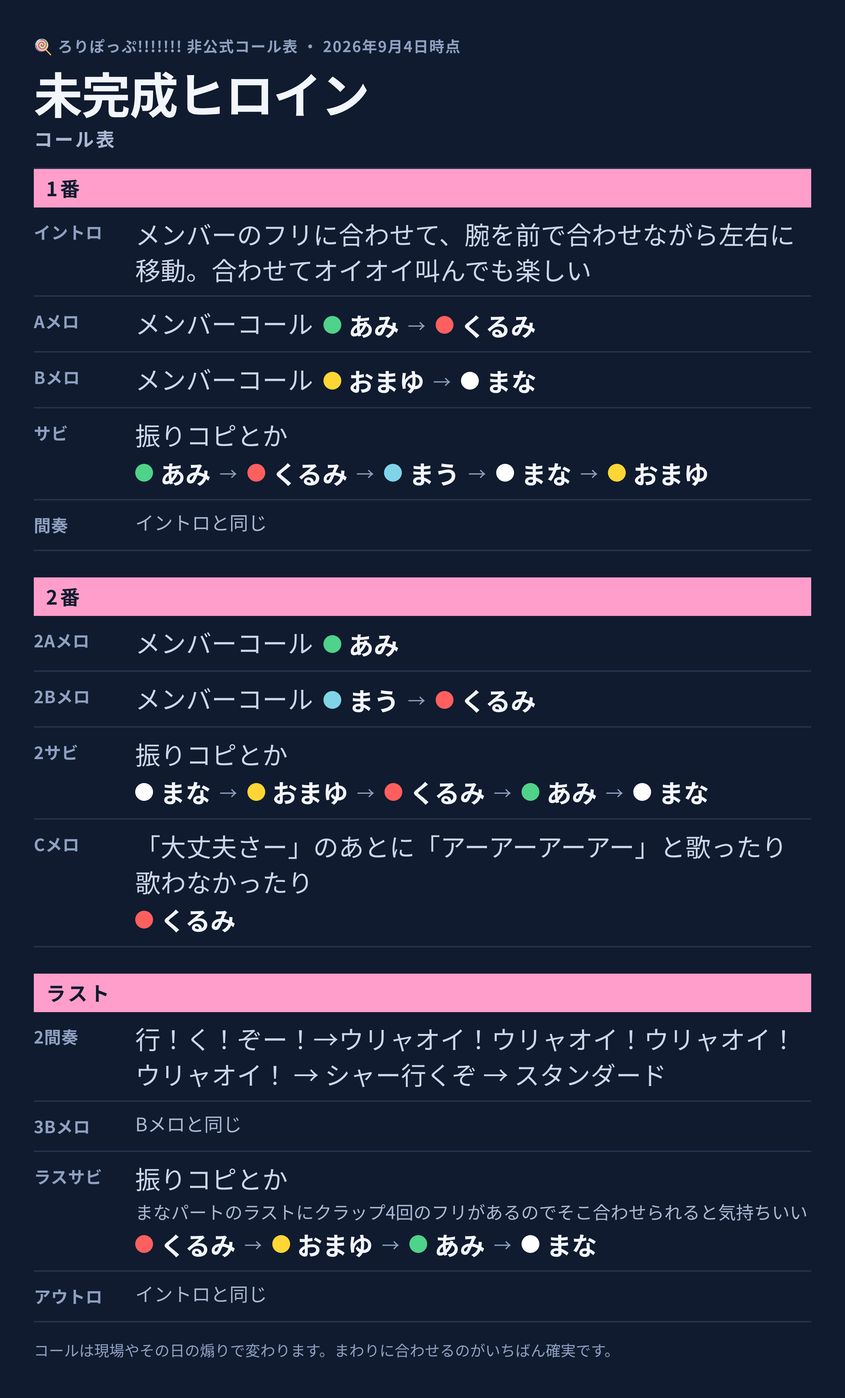
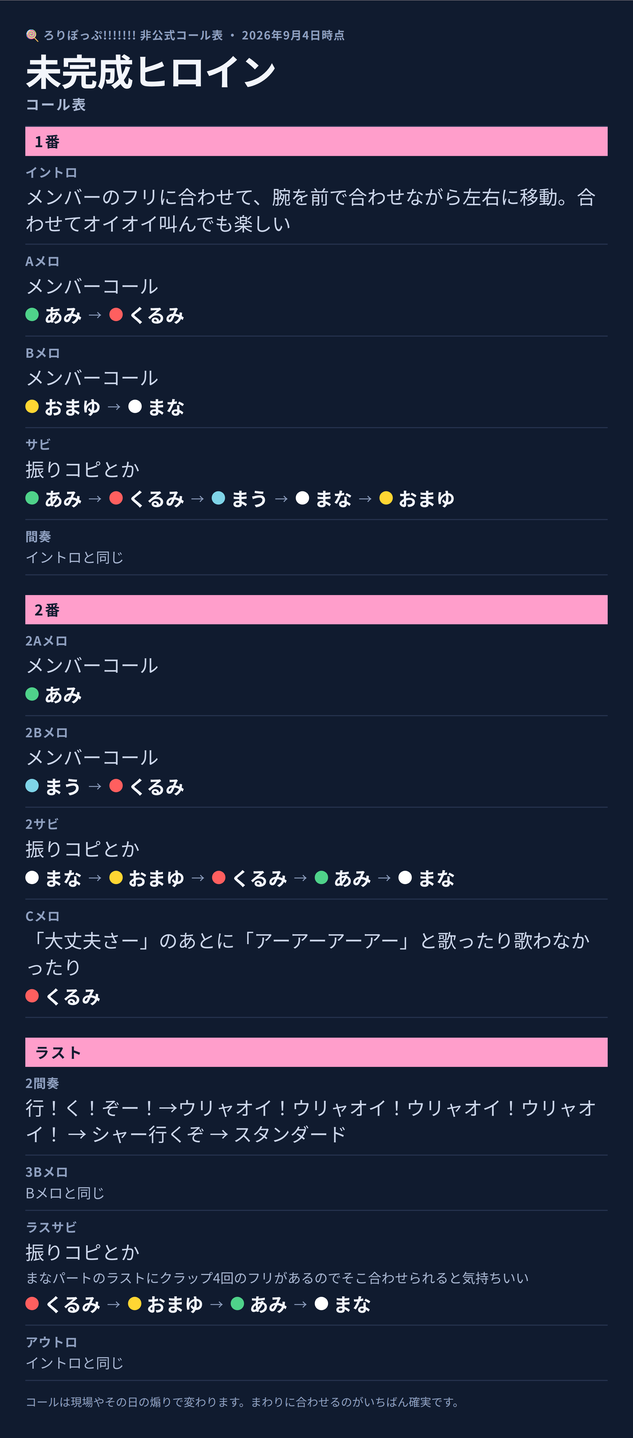
コール表の1パートを3段構成にする
1パートを「曲の構成（Aメロ・サビ）→ やること（メンバーコール・振りコピ）→
メンバーパート」の3段で積む。前は、やることとメンバーの並びを1行に流し、
パート名を左の列に置いていた。1行に収まるぶん縦は短くなるが、種類の違う
情報が同じ行に混ざって読みにくかった。縦に分けたほうが目が迷わない。

- パート名は左の列をやめて上の行へ。本文は幅いっぱいを使う。
- 段の間隔を広げ、やること／メンバーパートの切れ目が分かるようにした。
- 縦が伸びた（1:1.65 → 1:2.27）ぶん、実寸の倍率を2倍から1.5倍に下げた。
  2倍だと高さが8000pxを超えて X の上限（8192px）に迫るため。
  幅2700pxあり、SNSに載せる解像度としては十分。

Claude-Session: https://claude.ai/code/session_01WNKk4GD6PDbxYTrbdx2WSv

diff --git a/resources/call_sheet_cards.html b/resources/call_sheet_cards.html
@@ -115,24 +115,24 @@ body {
 
 .rows { border-top: 3px solid var(--line); }
 
-/* 1行 = 1パート。左にパート名、右に中身 */
+/* 1パート = 3段。曲の構成 → やること → メンバーパートの順に上から積む。
+   段を横に並べると1行に収まって縦は短くなるが、種類の違う情報が同じ行に
+   混ざって読みにくい。縦に分けたほうが目が迷わない */
 .row {
-  display: grid;
-  grid-template-columns: 190px 1fr;
-  gap: 0 26px;
-  padding: 18px 0;
+  padding: 20px 0 22px;
   border-bottom: 3px solid var(--line);
 }
 
 
 
+/* 1段目: 曲の構成（Aメロ・サビ…）。本文より小さく、色も落として見出しにする */
 .row__part {
-  margin: 0;
+  margin: 0 0 6px;
   color: var(--meta);
   font-size: 36px;
   font-weight: 700;
-  line-height: 1.9;
-  letter-spacing: 0.02em;
+  line-height: 1.4;
+  letter-spacing: 0.04em;
 }
 
 .row__body { min-width: 0; }
@@ -162,7 +162,7 @@ body {
 /* 「イントロと同じ」の繰り返しは、本文より落として流し読みできるように */
 .line--same { font-size: 40px; font-weight: 400; color: var(--sub); }
 
-.line + .line { margin-top: 4px; }
+.line + .line { margin-top: 8px; }
 
 /* メンバー名は担当カラーのドット付きで */
 .chips { display: inline-flex; flex-wrap: wrap; align-items: center; gap: 6px 18px; }
@@ -242,15 +242,15 @@ body {
         </div>
         <div class="row">
           <p class="row__part">Aメロ</p>
-          <div class="row__body"><p class="line">メンバーコール<span class="chips"><span class="chip"><span class="dot" style="background-color: var(--mc-ami);" aria-hidden="true"></span>あみ</span><span class="chip"><span class="chip__arrow" aria-hidden="true">→</span><span class="dot" style="background-color: var(--mc-kurumi);" aria-hidden="true"></span>くるみ</span></span></p></div>
+          <div class="row__body"><p class="line">メンバーコール</p><p class="line"><span class="chips"><span class="chip"><span class="dot" style="background-color: var(--mc-ami);" aria-hidden="true"></span>あみ</span><span class="chip"><span class="chip__arrow" aria-hidden="true">→</span><span class="dot" style="background-color: var(--mc-kurumi);" aria-hidden="true"></span>くるみ</span></span></p></div>
         </div>
         <div class="row">
           <p class="row__part">Bメロ</p>
-          <div class="row__body"><p class="line">メンバーコール<span class="chips"><span class="chip"><span class="dot" style="background-color: var(--mc-mayu);" aria-hidden="true"></span>おまゆ</span><span class="chip"><span class="chip__arrow" aria-hidden="true">→</span><span class="dot dot--outline" style="background-color: var(--mc-mana);" aria-hidden="true"></span>まな</span></span></p></div>
+          <div class="row__body"><p class="line">メンバーコール</p><p class="line"><span class="chips"><span class="chip"><span class="dot" style="background-color: var(--mc-mayu);" aria-hidden="true"></span>おまゆ</span><span class="chip"><span class="chip__arrow" aria-hidden="true">→</span><span class="dot dot--outline" style="background-color: var(--mc-mana);" aria-hidden="true"></span>まな</span></span></p></div>
         </div>
         <div class="row">
           <p class="row__part">サビ</p>
-          <div class="row__body"><p class="line">振りコピとか<span class="chips"><span class="chip"><span class="dot" style="background-color: var(--mc-ami);" aria-hidden="true"></span>あみ</span><span class="chip"><span class="chip__arrow" aria-hidden="true">→</span><span class="dot" style="background-color: var(--mc-kurumi);" aria-hidden="true"></span>くるみ</span><span class="chip"><span class="chip__arrow" aria-hidden="true">→</span><span class="dot" style="background-color: var(--mc-mau);" aria-hidden="true"></span>まう</span><span class="chip"><span class="chip__arrow" aria-hidden="true">→</span><span class="dot dot--outline" style="background-color: var(--mc-mana);" aria-hidden="true"></span>まな</span><span class="chip"><span class="chip__arrow" aria-hidden="true">→</span><span class="dot" style="background-color: var(--mc-mayu);" aria-hidden="true"></span>おまゆ</span></span></p></div>
+          <div class="row__body"><p class="line">振りコピとか</p><p class="line"><span class="chips"><span class="chip"><span class="dot" style="background-color: var(--mc-ami);" aria-hidden="true"></span>あみ</span><span class="chip"><span class="chip__arrow" aria-hidden="true">→</span><span class="dot" style="background-color: var(--mc-kurumi);" aria-hidden="true"></span>くるみ</span><span class="chip"><span class="chip__arrow" aria-hidden="true">→</span><span class="dot" style="background-color: var(--mc-mau);" aria-hidden="true"></span>まう</span><span class="chip"><span class="chip__arrow" aria-hidden="true">→</span><span class="dot dot--outline" style="background-color: var(--mc-mana);" aria-hidden="true"></span>まな</span><span class="chip"><span class="chip__arrow" aria-hidden="true">→</span><span class="dot" style="background-color: var(--mc-mayu);" aria-hidden="true"></span>おまゆ</span></span></p></div>
         </div>
         <div class="row">
           <p class="row__part">間奏</p>
@@ -259,19 +259,19 @@ body {
         <p class="block">2番</p>
         <div class="row">
           <p class="row__part">2Aメロ</p>
-          <div class="row__body"><p class="line">メンバーコール<span class="chips"><span class="chip"><span class="dot" style="background-color: var(--mc-ami);" aria-hidden="true"></span>あみ</span></span></p></div>
+          <div class="row__body"><p class="line">メンバーコール</p><p class="line"><span class="chips"><span class="chip"><span class="dot" style="background-color: var(--mc-ami);" aria-hidden="true"></span>あみ</span></span></p></div>
         </div>
         <div class="row">
           <p class="row__part">2Bメロ</p>
-          <div class="row__body"><p class="line">メンバーコール<span class="chips"><span class="chip"><span class="dot" style="background-color: var(--mc-mau);" aria-hidden="true"></span>まう</span><span class="chip"><span class="chip__arrow" aria-hidden="true">→</span><span class="dot" style="background-color: var(--mc-kurumi);" aria-hidden="true"></span>くるみ</span></span></p></div>
+          <div class="row__body"><p class="line">メンバーコール</p><p class="line"><span class="chips"><span class="chip"><span class="dot" style="background-color: var(--mc-mau);" aria-hidden="true"></span>まう</span><span class="chip"><span class="chip__arrow" aria-hidden="true">→</span><span class="dot" style="background-color: var(--mc-kurumi);" aria-hidden="true"></span>くるみ</span></span></p></div>
         </div>
         <div class="row">
           <p class="row__part">2サビ</p>
-          <div class="row__body"><p class="line">振りコピとか<span class="chips"><span class="chip"><span class="dot dot--outline" style="background-color: var(--mc-mana);" aria-hidden="true"></span>まな</span><span class="chip"><span class="chip__arrow" aria-hidden="true">→</span><span class="dot" style="background-color: var(--mc-mayu);" aria-hidden="true"></span>おまゆ</span><span class="chip"><span class="chip__arrow" aria-hidden="true">→</span><span class="dot" style="background-color: var(--mc-kurumi);" aria-hidden="true"></span>くるみ</span><span class="chip"><span class="chip__arrow" aria-hidden="true">→</span><span class="dot" style="background-color: var(--mc-ami);" aria-hidden="true"></span>あみ</span><span class="chip"><span class="chip__arrow" aria-hidden="true">→</span><span class="dot dot--outline" style="background-color: var(--mc-mana);" aria-hidden="true"></span>まな</span></span></p></div>
+          <div class="row__body"><p class="line">振りコピとか</p><p class="line"><span class="chips"><span class="chip"><span class="dot dot--outline" style="background-color: var(--mc-mana);" aria-hidden="true"></span>まな</span><span class="chip"><span class="chip__arrow" aria-hidden="true">→</span><span class="dot" style="background-color: var(--mc-mayu);" aria-hidden="true"></span>おまゆ</span><span class="chip"><span class="chip__arrow" aria-hidden="true">→</span><span class="dot" style="background-color: var(--mc-kurumi);" aria-hidden="true"></span>くるみ</span><span class="chip"><span class="chip__arrow" aria-hidden="true">→</span><span class="dot" style="background-color: var(--mc-ami);" aria-hidden="true"></span>あみ</span><span class="chip"><span class="chip__arrow" aria-hidden="true">→</span><span class="dot dot--outline" style="background-color: var(--mc-mana);" aria-hidden="true"></span>まな</span></span></p></div>
         </div>
         <div class="row">
           <p class="row__part">Cメロ</p>
-          <div class="row__body"><p class="line">「大丈夫さー」のあとに「アーアーアーアー」と歌ったり歌わなかったり<span class="chips"><span class="chip"><span class="dot" style="background-color: var(--mc-kurumi);" aria-hidden="true"></span>くるみ</span></span></p></div>
+          <div class="row__body"><p class="line">「大丈夫さー」のあとに「アーアーアーアー」と歌ったり歌わなかったり</p><p class="line"><span class="chips"><span class="chip"><span class="dot" style="background-color: var(--mc-kurumi);" aria-hidden="true"></span>くるみ</span></span></p></div>
         </div>
         <p class="block">ラスト</p>
         <div class="row">
@@ -306,15 +306,15 @@ body {
         </div>
         <div class="row">
           <p class="row__part">Aメロ</p>
-          <div class="row__body"><p class="line">メンバーコール<span class="chips"><span class="chip"><span class="dot" style="background-color: var(--mc-ami);" aria-hidden="true"></span>あみ</span><span class="chip"><span class="chip__arrow" aria-hidden="true">→</span><span class="dot" style="background-color: var(--mc-kurumi);" aria-hidden="true"></span>くるみ</span></span></p></div>
+          <div class="row__body"><p class="line">メンバーコール</p><p class="line"><span class="chips"><span class="chip"><span class="dot" style="background-color: var(--mc-ami);" aria-hidden="true"></span>あみ</span><span class="chip"><span class="chip__arrow" aria-hidden="true">→</span><span class="dot" style="background-color: var(--mc-kurumi);" aria-hidden="true"></span>くるみ</span></span></p></div>
         </div>
         <div class="row">
           <p class="row__part">Bメロ</p>
-          <div class="row__body"><p class="line">メンバーコール<span class="chips"><span class="chip"><span class="dot" style="background-color: var(--mc-mayu);" aria-hidden="true"></span>おまゆ</span><span class="chip"><span class="chip__arrow" aria-hidden="true">→</span><span class="dot dot--outline" style="background-color: var(--mc-mana);" aria-hidden="true"></span>まな</span></span></p></div>
+          <div class="row__body"><p class="line">メンバーコール</p><p class="line"><span class="chips"><span class="chip"><span class="dot" style="background-color: var(--mc-mayu);" aria-hidden="true"></span>おまゆ</span><span class="chip"><span class="chip__arrow" aria-hidden="true">→</span><span class="dot dot--outline" style="background-color: var(--mc-mana);" aria-hidden="true"></span>まな</span></span></p></div>
         </div>
         <div class="row">
           <p class="row__part">サビ</p>
-          <div class="row__body"><p class="line">振りコピとか<span class="chips"><span class="chip"><span class="dot" style="background-color: var(--mc-ami);" aria-hidden="true"></span>あみ</span><span class="chip"><span class="chip__arrow" aria-hidden="true">→</span><span class="dot" style="background-color: var(--mc-kurumi);" aria-hidden="true"></span>くるみ</span><span class="chip"><span class="chip__arrow" aria-hidden="true">→</span><span class="dot" style="background-color: var(--mc-mau);" aria-hidden="true"></span>まう</span><span class="chip"><span class="chip__arrow" aria-hidden="true">→</span><span class="dot dot--outline" style="background-color: var(--mc-mana);" aria-hidden="true"></span>まな</span><span class="chip"><span class="chip__arrow" aria-hidden="true">→</span><span class="dot" style="background-color: var(--mc-mayu);" aria-hidden="true"></span>おまゆ</span></span></p></div>
+          <div class="row__body"><p class="line">振りコピとか</p><p class="line"><span class="chips"><span class="chip"><span class="dot" style="background-color: var(--mc-ami);" aria-hidden="true"></span>あみ</span><span class="chip"><span class="chip__arrow" aria-hidden="true">→</span><span class="dot" style="background-color: var(--mc-kurumi);" aria-hidden="true"></span>くるみ</span><span class="chip"><span class="chip__arrow" aria-hidden="true">→</span><span class="dot" style="background-color: var(--mc-mau);" aria-hidden="true"></span>まう</span><span class="chip"><span class="chip__arrow" aria-hidden="true">→</span><span class="dot dot--outline" style="background-color: var(--mc-mana);" aria-hidden="true"></span>まな</span><span class="chip"><span class="chip__arrow" aria-hidden="true">→</span><span class="dot" style="background-color: var(--mc-mayu);" aria-hidden="true"></span>おまゆ</span></span></p></div>
         </div>
         <div class="row">
           <p class="row__part">間奏</p>
@@ -323,19 +323,19 @@ body {
         <p class="block">2番</p>
         <div class="row">
           <p class="row__part">2Aメロ</p>
-          <div class="row__body"><p class="line">メンバーコール<span class="chips"><span class="chip"><span class="dot" style="background-color: var(--mc-ami);" aria-hidden="true"></span>あみ</span></span></p></div>
+          <div class="row__body"><p class="line">メンバーコール</p><p class="line"><span class="chips"><span class="chip"><span class="dot" style="background-color: var(--mc-ami);" aria-hidden="true"></span>あみ</span></span></p></div>
         </div>
         <div class="row">
           <p class="row__part">2Bメロ</p>
-          <div class="row__body"><p class="line">メンバーコール<span class="chips"><span class="chip"><span class="dot" style="background-color: var(--mc-mau);" aria-hidden="true"></span>まう</span><span class="chip"><span class="chip__arrow" aria-hidden="true">→</span><span class="dot" style="background-color: var(--mc-kurumi);" aria-hidden="true"></span>くるみ</span></span></p></div>
+          <div class="row__body"><p class="line">メンバーコール</p><p class="line"><span class="chips"><span class="chip"><span class="dot" style="background-color: var(--mc-mau);" aria-hidden="true"></span>まう</span><span class="chip"><span class="chip__arrow" aria-hidden="true">→</span><span class="dot" style="background-color: var(--mc-kurumi);" aria-hidden="true"></span>くるみ</span></span></p></div>
         </div>
         <div class="row">
           <p class="row__part">2サビ</p>
-          <div class="row__body"><p class="line">振りコピとか<span class="chips"><span class="chip"><span class="dot dot--outline" style="background-color: var(--mc-mana);" aria-hidden="true"></span>まな</span><span class="chip"><span class="chip__arrow" aria-hidden="true">→</span><span class="dot" style="background-color: var(--mc-mayu);" aria-hidden="true"></span>おまゆ</span><span class="chip"><span class="chip__arrow" aria-hidden="true">→</span><span class="dot" style="background-color: var(--mc-kurumi);" aria-hidden="true"></span>くるみ</span><span class="chip"><span class="chip__arrow" aria-hidden="true">→</span><span class="dot" style="background-color: var(--mc-ami);" aria-hidden="true"></span>あみ</span><span class="chip"><span class="chip__arrow" aria-hidden="true">→</span><span class="dot dot--outline" style="background-color: var(--mc-mana);" aria-hidden="true"></span>まな</span></span></p></div>
+          <div class="row__body"><p class="line">振りコピとか</p><p class="line"><span class="chips"><span class="chip"><span class="dot dot--outline" style="background-color: var(--mc-mana);" aria-hidden="true"></span>まな</span><span class="chip"><span class="chip__arrow" aria-hidden="true">→</span><span class="dot" style="background-color: var(--mc-mayu);" aria-hidden="true"></span>おまゆ</span><span class="chip"><span class="chip__arrow" aria-hidden="true">→</span><span class="dot" style="background-color: var(--mc-kurumi);" aria-hidden="true"></span>くるみ</span><span class="chip"><span class="chip__arrow" aria-hidden="true">→</span><span class="dot" style="background-color: var(--mc-ami);" aria-hidden="true"></span>あみ</span><span class="chip"><span class="chip__arrow" aria-hidden="true">→</span><span class="dot dot--outline" style="background-color: var(--mc-mana);" aria-hidden="true"></span>まな</span></span></p></div>
         </div>
         <div class="row">
           <p class="row__part">Cメロ</p>
-          <div class="row__body"><p class="line">「大丈夫さー」のあとに「アーアーアーアー」と歌ったり歌わなかったり<span class="chips"><span class="chip"><span class="dot" style="background-color: var(--mc-kurumi);" aria-hidden="true"></span>くるみ</span></span></p></div>
+          <div class="row__body"><p class="line">「大丈夫さー」のあとに「アーアーアーアー」と歌ったり歌わなかったり</p><p class="line"><span class="chips"><span class="chip"><span class="dot" style="background-color: var(--mc-kurumi);" aria-hidden="true"></span>くるみ</span></span></p></div>
         </div>
         <p class="block">ラスト</p>
         <div class="row">
@@ -370,15 +370,15 @@ body {
         </div>
         <div class="row">
           <p class="row__part">Aメロ</p>
-          <div class="row__body"><p class="line">メンバーコール<span class="chips"><span class="chip"><span class="dot" style="background-color: var(--mc-ami);" aria-hidden="true"></span>あみ</span><span class="chip"><span class="chip__arrow" aria-hidden="true">→</span><span class="dot" style="background-color: var(--mc-kurumi);" aria-hidden="true"></span>くるみ</span></span></p></div>
+          <div class="row__body"><p class="line">メンバーコール</p><p class="line"><span class="chips"><span class="chip"><span class="dot" style="background-color: var(--mc-ami);" aria-hidden="true"></span>あみ</span><span class="chip"><span class="chip__arrow" aria-hidden="true">→</span><span class="dot" style="background-color: var(--mc-kurumi);" aria-hidden="true"></span>くるみ</span></span></p></div>
         </div>
         <div class="row">
           <p class="row__part">Bメロ</p>
-          <div class="row__body"><p class="line">メンバーコール<span class="chips"><span class="chip"><span class="dot" style="background-color: var(--mc-mayu);" aria-hidden="true"></span>おまゆ</span><span class="chip"><span class="chip__arrow" aria-hidden="true">→</span><span class="dot dot--outline" style="background-color: var(--mc-mana);" aria-hidden="true"></span>まな</span></span></p></div>
+          <div class="row__body"><p class="line">メンバーコール</p><p class="line"><span class="chips"><span class="chip"><span class="dot" style="background-color: var(--mc-mayu);" aria-hidden="true"></span>おまゆ</span><span class="chip"><span class="chip__arrow" aria-hidden="true">→</span><span class="dot dot--outline" style="background-color: var(--mc-mana);" aria-hidden="true"></span>まな</span></span></p></div>
         </div>
         <div class="row">
           <p class="row__part">サビ</p>
-          <div class="row__body"><p class="line">振りコピとか<span class="chips"><span class="chip"><span class="dot" style="background-color: var(--mc-ami);" aria-hidden="true"></span>あみ</span><span class="chip"><span class="chip__arrow" aria-hidden="true">→</span><span class="dot" style="background-color: var(--mc-kurumi);" aria-hidden="true"></span>くるみ</span><span class="chip"><span class="chip__arrow" aria-hidden="true">→</span><span class="dot" style="background-color: var(--mc-mau);" aria-hidden="true"></span>まう</span><span class="chip"><span class="chip__arrow" aria-hidden="true">→</span><span class="dot dot--outline" style="background-color: var(--mc-mana);" aria-hidden="true"></span>まな</span><span class="chip"><span class="chip__arrow" aria-hidden="true">→</span><span class="dot" style="background-color: var(--mc-mayu);" aria-hidden="true"></span>おまゆ</span></span></p></div>
+          <div class="row__body"><p class="line">振りコピとか</p><p class="line"><span class="chips"><span class="chip"><span class="dot" style="background-color: var(--mc-ami);" aria-hidden="true"></span>あみ</span><span class="chip"><span class="chip__arrow" aria-hidden="true">→</span><span class="dot" style="background-color: var(--mc-kurumi);" aria-hidden="true"></span>くるみ</span><span class="chip"><span class="chip__arrow" aria-hidden="true">→</span><span class="dot" style="background-color: var(--mc-mau);" aria-hidden="true"></span>まう</span><span class="chip"><span class="chip__arrow" aria-hidden="true">→</span><span class="dot dot--outline" style="background-color: var(--mc-mana);" aria-hidden="true"></span>まな</span><span class="chip"><span class="chip__arrow" aria-hidden="true">→</span><span class="dot" style="background-color: var(--mc-mayu);" aria-hidden="true"></span>おまゆ</span></span></p></div>
         </div>
         <div class="row">
           <p class="row__part">間奏</p>
@@ -387,19 +387,19 @@ body {
         <p class="block">2番</p>
         <div class="row">
           <p class="row__part">2Aメロ</p>
-          <div class="row__body"><p class="line">メンバーコール<span class="chips"><span class="chip"><span class="dot" style="background-color: var(--mc-ami);" aria-hidden="true"></span>あみ</span></span></p></div>
+          <div class="row__body"><p class="line">メンバーコール</p><p class="line"><span class="chips"><span class="chip"><span class="dot" style="background-color: var(--mc-ami);" aria-hidden="true"></span>あみ</span></span></p></div>
         </div>
         <div class="row">
           <p class="row__part">2Bメロ</p>
-          <div class="row__body"><p class="line">メンバーコール<span class="chips"><span class="chip"><span class="dot" style="background-color: var(--mc-mau);" aria-hidden="true"></span>まう</span><span class="chip"><span class="chip__arrow" aria-hidden="true">→</span><span class="dot" style="background-color: var(--mc-kurumi);" aria-hidden="true"></span>くるみ</span></span></p></div>
+          <div class="row__body"><p class="line">メンバーコール</p><p class="line"><span class="chips"><span class="chip"><span class="dot" style="background-color: var(--mc-mau);" aria-hidden="true"></span>まう</span><span class="chip"><span class="chip__arrow" aria-hidden="true">→</span><span class="dot" style="background-color: var(--mc-kurumi);" aria-hidden="true"></span>くるみ</span></span></p></div>
         </div>
         <div class="row">
           <p class="row__part">2サビ</p>
-          <div class="row__body"><p class="line">振りコピとか<span class="chips"><span class="chip"><span class="dot dot--outline" style="background-color: var(--mc-mana);" aria-hidden="true"></span>まな</span><span class="chip"><span class="chip__arrow" aria-hidden="true">→</span><span class="dot" style="background-color: var(--mc-mayu);" aria-hidden="true"></span>おまゆ</span><span class="chip"><span class="chip__arrow" aria-hidden="true">→</span><span class="dot" style="background-color: var(--mc-kurumi);" aria-hidden="true"></span>くるみ</span><span class="chip"><span class="chip__arrow" aria-hidden="true">→</span><span class="dot" style="background-color: var(--mc-ami);" aria-hidden="true"></span>あみ</span><span class="chip"><span class="chip__arrow" aria-hidden="true">→</span><span class="dot dot--outline" style="background-color: var(--mc-mana);" aria-hidden="true"></span>まな</span></span></p></div>
+          <div class="row__body"><p class="line">振りコピとか</p><p class="line"><span class="chips"><span class="chip"><span class="dot dot--outline" style="background-color: var(--mc-mana);" aria-hidden="true"></span>まな</span><span class="chip"><span class="chip__arrow" aria-hidden="true">→</span><span class="dot" style="background-color: var(--mc-mayu);" aria-hidden="true"></span>おまゆ</span><span class="chip"><span class="chip__arrow" aria-hidden="true">→</span><span class="dot" style="background-color: var(--mc-kurumi);" aria-hidden="true"></span>くるみ</span><span class="chip"><span class="chip__arrow" aria-hidden="true">→</span><span class="dot" style="background-color: var(--mc-ami);" aria-hidden="true"></span>あみ</span><span class="chip"><span class="chip__arrow" aria-hidden="true">→</span><span class="dot dot--outline" style="background-color: var(--mc-mana);" aria-hidden="true"></span>まな</span></span></p></div>
         </div>
         <div class="row">
           <p class="row__part">Cメロ</p>
-          <div class="row__body"><p class="line">「大丈夫さー」のあとに「アーアーアーアー」と歌ったり歌わなかったり<span class="chips"><span class="chip"><span class="dot" style="background-color: var(--mc-kurumi);" aria-hidden="true"></span>くるみ</span></span></p></div>
+          <div class="row__body"><p class="line">「大丈夫さー」のあとに「アーアーアーアー」と歌ったり歌わなかったり</p><p class="line"><span class="chips"><span class="chip"><span class="dot" style="background-color: var(--mc-kurumi);" aria-hidden="true"></span>くるみ</span></span></p></div>
         </div>
         <p class="block">ラスト</p>
         <div class="row">
@@ -434,15 +434,15 @@ body {
         </div>
         <div class="row">
           <p class="row__part">Aメロ</p>
-          <div class="row__body"><p class="line">メンバーコール<span class="chips"><span class="chip"><span class="dot" style="background-color: var(--mc-ami);" aria-hidden="true"></span>あみ</span><span class="chip"><span class="chip__arrow" aria-hidden="true">→</span><span class="dot" style="background-color: var(--mc-kurumi);" aria-hidden="true"></span>くるみ</span></span></p></div>
+          <div class="row__body"><p class="line">メンバーコール</p><p class="line"><span class="chips"><span class="chip"><span class="dot" style="background-color: var(--mc-ami);" aria-hidden="true"></span>あみ</span><span class="chip"><span class="chip__arrow" aria-hidden="true">→</span><span class="dot" style="background-color: var(--mc-kurumi);" aria-hidden="true"></span>くるみ</span></span></p></div>
         </div>
         <div class="row">
           <p class="row__part">Bメロ</p>
-          <div class="row__body"><p class="line">メンバーコール<span class="chips"><span class="chip"><span class="dot" style="background-color: var(--mc-mayu);" aria-hidden="true"></span>おまゆ</span><span class="chip"><span class="chip__arrow" aria-hidden="true">→</span><span class="dot dot--outline" style="background-color: var(--mc-mana);" aria-hidden="true"></span>まな</span></span></p></div>
+          <div class="row__body"><p class="line">メンバーコール</p><p class="line"><span class="chips"><span class="chip"><span class="dot" style="background-color: var(--mc-mayu);" aria-hidden="true"></span>おまゆ</span><span class="chip"><span class="chip__arrow" aria-hidden="true">→</span><span class="dot dot--outline" style="background-color: var(--mc-mana);" aria-hidden="true"></span>まな</span></span></p></div>
         </div>
         <div class="row">
           <p class="row__part">サビ</p>
-          <div class="row__body"><p class="line">振りコピとか<span class="chips"><span class="chip"><span class="dot" style="background-color: var(--mc-ami);" aria-hidden="true"></span>あみ</span><span class="chip"><span class="chip__arrow" aria-hidden="true">→</span><span class="dot" style="background-color: var(--mc-kurumi);" aria-hidden="true"></span>くるみ</span><span class="chip"><span class="chip__arrow" aria-hidden="true">→</span><span class="dot" style="background-color: var(--mc-mau);" aria-hidden="true"></span>まう</span><span class="chip"><span class="chip__arrow" aria-hidden="true">→</span><span class="dot dot--outline" style="background-color: var(--mc-mana);" aria-hidden="true"></span>まな</span><span class="chip"><span class="chip__arrow" aria-hidden="true">→</span><span class="dot" style="background-color: var(--mc-mayu);" aria-hidden="true"></span>おまゆ</span></span></p></div>
+          <div class="row__body"><p class="line">振りコピとか</p><p class="line"><span class="chips"><span class="chip"><span class="dot" style="background-color: var(--mc-ami);" aria-hidden="true"></span>あみ</span><span class="chip"><span class="chip__arrow" aria-hidden="true">→</span><span class="dot" style="background-color: var(--mc-kurumi);" aria-hidden="true"></span>くるみ</span><span class="chip"><span class="chip__arrow" aria-hidden="true">→</span><span class="dot" style="background-color: var(--mc-mau);" aria-hidden="true"></span>まう</span><span class="chip"><span class="chip__arrow" aria-hidden="true">→</span><span class="dot dot--outline" style="background-color: var(--mc-mana);" aria-hidden="true"></span>まな</span><span class="chip"><span class="chip__arrow" aria-hidden="true">→</span><span class="dot" style="background-color: var(--mc-mayu);" aria-hidden="true"></span>おまゆ</span></span></p></div>
         </div>
         <div class="row">
           <p class="row__part">間奏</p>
@@ -451,19 +451,19 @@ body {
         <p class="block">2番</p>
         <div class="row">
           <p class="row__part">2Aメロ</p>
-          <div class="row__body"><p class="line">メンバーコール<span class="chips"><span class="chip"><span class="dot" style="background-color: var(--mc-ami);" aria-hidden="true"></span>あみ</span></span></p></div>
+          <div class="row__body"><p class="line">メンバーコール</p><p class="line"><span class="chips"><span class="chip"><span class="dot" style="background-color: var(--mc-ami);" aria-hidden="true"></span>あみ</span></span></p></div>
         </div>
         <div class="row">
           <p class="row__part">2Bメロ</p>
-          <div class="row__body"><p class="line">メンバーコール<span class="chips"><span class="chip"><span class="dot" style="background-color: var(--mc-mau);" aria-hidden="true"></span>まう</span><span class="chip"><span class="chip__arrow" aria-hidden="true">→</span><span class="dot" style="background-color: var(--mc-kurumi);" aria-hidden="true"></span>くるみ</span></span></p></div>
+          <div class="row__body"><p class="line">メンバーコール</p><p class="line"><span class="chips"><span class="chip"><span class="dot" style="background-color: var(--mc-mau);" aria-hidden="true"></span>まう</span><span class="chip"><span class="chip__arrow" aria-hidden="true">→</span><span class="dot" style="background-color: var(--mc-kurumi);" aria-hidden="true"></span>くるみ</span></span></p></div>
         </div>
         <div class="row">
           <p class="row__part">2サビ</p>
-          <div class="row__body"><p class="line">振りコピとか<span class="chips"><span class="chip"><span class="dot dot--outline" style="background-color: var(--mc-mana);" aria-hidden="true"></span>まな</span><span class="chip"><span class="chip__arrow" aria-hidden="true">→</span><span class="dot" style="background-color: var(--mc-mayu);" aria-hidden="true"></span>おまゆ</span><span class="chip"><span class="chip__arrow" aria-hidden="true">→</span><span class="dot" style="background-color: var(--mc-kurumi);" aria-hidden="true"></span>くるみ</span><span class="chip"><span class="chip__arrow" aria-hidden="true">→</span><span class="dot" style="background-color: var(--mc-ami);" aria-hidden="true"></span>あみ</span><span class="chip"><span class="chip__arrow" aria-hidden="true">→</span><span class="dot dot--outline" style="background-color: var(--mc-mana);" aria-hidden="true"></span>まな</span></span></p></div>
+          <div class="row__body"><p class="line">振りコピとか</p><p class="line"><span class="chips"><span class="chip"><span class="dot dot--outline" style="background-color: var(--mc-mana);" aria-hidden="true"></span>まな</span><span class="chip"><span class="chip__arrow" aria-hidden="true">→</span><span class="dot" style="background-color: var(--mc-mayu);" aria-hidden="true"></span>おまゆ</span><span class="chip"><span class="chip__arrow" aria-hidden="true">→</span><span class="dot" style="background-color: var(--mc-kurumi);" aria-hidden="true"></span>くるみ</span><span class="chip"><span class="chip__arrow" aria-hidden="true">→</span><span class="dot" style="background-color: var(--mc-ami);" aria-hidden="true"></span>あみ</span><span class="chip"><span class="chip__arrow" aria-hidden="true">→</span><span class="dot dot--outline" style="background-color: var(--mc-mana);" aria-hidden="true"></span>まな</span></span></p></div>
         </div>
         <div class="row">
           <p class="row__part">Cメロ</p>
-          <div class="row__body"><p class="line">「大丈夫さー」のあとに「アーアーアーアー」と歌ったり歌わなかったり<span class="chips"><span class="chip"><span class="dot" style="background-color: var(--mc-kurumi);" aria-hidden="true"></span>くるみ</span></span></p></div>
+          <div class="row__body"><p class="line">「大丈夫さー」のあとに「アーアーアーアー」と歌ったり歌わなかったり</p><p class="line"><span class="chips"><span class="chip"><span class="dot" style="background-color: var(--mc-kurumi);" aria-hidden="true"></span>くるみ</span></span></p></div>
         </div>
         <p class="block">ラスト</p>
         <div class="row">

diff --git a/resources/build_call_sheet.py b/resources/build_call_sheet.py
@@ -620,24 +620,24 @@ body {
 
 .rows { border-top: 3px solid var(--line); }
 
-/* 1行 = 1パート。左にパート名、右に中身 */
+/* 1パート = 3段。曲の構成 → やること → メンバーパートの順に上から積む。
+   段を横に並べると1行に収まって縦は短くなるが、種類の違う情報が同じ行に
+   混ざって読みにくい。縦に分けたほうが目が迷わない */
 .row {
-  display: grid;
-  grid-template-columns: 190px 1fr;
-  gap: 0 26px;
-  padding: 18px 0;
+  padding: 20px 0 22px;
   border-bottom: 3px solid var(--line);
 }
 
 
 
+/* 1段目: 曲の構成（Aメロ・サビ…）。本文より小さく、色も落として見出しにする */
 .row__part {
-  margin: 0;
+  margin: 0 0 6px;
   color: var(--meta);
   font-size: 36px;
   font-weight: 700;
-  line-height: 1.9;
-  letter-spacing: 0.02em;
+  line-height: 1.4;
+  letter-spacing: 0.04em;
 }
 
 .row__body { min-width: 0; }
@@ -667,7 +667,7 @@ body {
 /* 「イントロと同じ」の繰り返しは、本文より落として流し読みできるように */
 .line--same { font-size: 40px; font-weight: 400; color: var(--sub); }
 
-.line + .line { margin-top: 4px; }
+.line + .line { margin-top: 8px; }
 
 /* メンバー名は担当カラーのドット付きで */
 .chips { display: inline-flex; flex-wrap: wrap; align-items: center; gap: 6px 18px; }
@@ -722,33 +722,21 @@ def part_lines(part: Part) -> list[str]:
 
 
 def render_lines(lines: list[str]) -> str:
-    """行をまとめる。パートの1行目とメンバーの並びは大きく、補足は一段小さく。
+    """1パートを3段で出す。上から「やること」→「メンバーパート」。
+
+    パート名（曲の構成）は呼び出し側が上に置くので、ここは2段目から。
+    「メンバーコール」と「あみ→くるみ」は別の行にする。横に並べると1行に
+    収まって縦は短くなるが、やることとメンバーが同じ行に混ざって読みにくい。
 
     1行目は「そのパートで何をするか」なので必ず大きくする。長い説明でも小さくすると、
     イントロや2間奏（MIXの掛け声）のように文で書かれたパートだけ弱く見えてしまう。
     2行目以降の補足（コツや但し書き）は一段落として、目を留めたときに読めればいい。
-
-    「メンバーコール」と「あみ→くるみ」は別々の行にすると縦を倍使うので、
-    横に並べて入るなら1行に流す（入らなければ折り返す）。
     """
     out = []
-    index = 0
-    while index < len(lines):
-        line = lines[index]
-        first = not out
-        is_route = bool(ROUTE_RE.match(line))
-
-        if not first and not is_route and len(line) > SHORT:
-            out.append(f'<p class="line line--note">{render_text(line)}</p>')
-            index += 1
-            continue
-
-        chunk = [render_text(line)]
-        index += 1
-        while index < len(lines) and ROUTE_RE.match(lines[index]):
-            chunk.append(render_text(lines[index]))
-            index += 1
-        out.append(f'<p class="line">{"".join(chunk)}</p>')
+    for index, line in enumerate(lines):
+        note = index and not ROUTE_RE.match(line) and len(line) > SHORT
+        cls = "line line--note" if note else "line"
+        out.append(f'<p class="{cls}">{render_text(line)}</p>')
     return "".join(out)
 
 

diff --git a/resources/capture_call_sheet.py b/resources/capture_call_sheet.py
@@ -7,7 +7,8 @@
 
 **縦型（既定・SNSに載せるのはこっち）**
   resources/call_sheet_cards.html のカードを撮る。**1曲 = 1枚**。
-  出力は resources/img/call_sheet_<色>.png（3600x5956 / 実寸2倍の高解像度）。
+  1パートを3段（曲の構成 → やること → メンバーパート）で積む。
+  出力は resources/img/call_sheet_<色>.png（2700x6126 / 実寸1.5倍）。
   1曲を3枚に割ると、SNSで1曲のコール表が散らばって追えない。横長1枚に
   詰め込むと本文が4px相当まで縮んで拡大しないと読めない。どちらも試して
   却下し、縦1枚に落ち着いた（2026-09-04）。
@@ -39,7 +40,9 @@ CARDS_PAGE = ROOT / "resources" / "call_sheet_cards.html"
 OUT_DIR = ROOT / "resources" / "img"
 LANDSCAPE_WIDTH = 1440
 LANDSCAPE_RATIO = 9 / 16
-SCALE = 2
+# 実寸の倍率。3段構成にして縦が伸びたので、2倍だと高さが8000pxを超えて
+# X の上限（8192px）に迫る。1.5倍でも幅2700pxあり、SNSには十分な解像度。
+SCALE = 1.5
 FONT = "Noto Sans JP"
 
 # フォントが無い環境で撮ろうとしたときに出す直し方

diff --git a/README.md b/README.md
@@ -61,7 +61,7 @@ J-POPアイドルジャンルを中心に、ライブを通じて観客と一緒
 
 | パス | 内容 |
 | --- | --- |
-| `resources/` | GitHub Pages で公開しているサイト一式（ポータル・ビューア・セトリ白書・成長戦略ノート・CSS）。コール表は `songs/call_list.md` から `build_call_sheet.py` が生成する（`call_sheet.html` = 読む用の横長、`call_sheet_cards.html` = SNS用の縦型カード）。投稿用の画像は `capture_call_sheet.py` で `img/call_sheet_<色>.png`（1曲1枚の縦長・3600x5956）に書き出す |
+| `resources/` | GitHub Pages で公開しているサイト一式（ポータル・ビューア・セトリ白書・成長戦略ノート・CSS）。コール表は `songs/call_list.md` から `build_call_sheet.py` が生成する（`call_sheet.html` = 読む用の横長、`call_sheet_cards.html` = SNS用の縦型カード）。投稿用の画像は `capture_call_sheet.py` で `img/call_sheet_<色>.png`（1曲1枚の縦長・2700x6126）に書き出す |
 | `design.md` | デザインシステム定義（色・タイポ・バンド構成の正。`resources/css/style.css` が実装） |
 | `README.md` | この文書。リポジトリの地図 |
 | `CLAUDE.md` | Claude Code 用の作業ルールと資源配置ルール |
